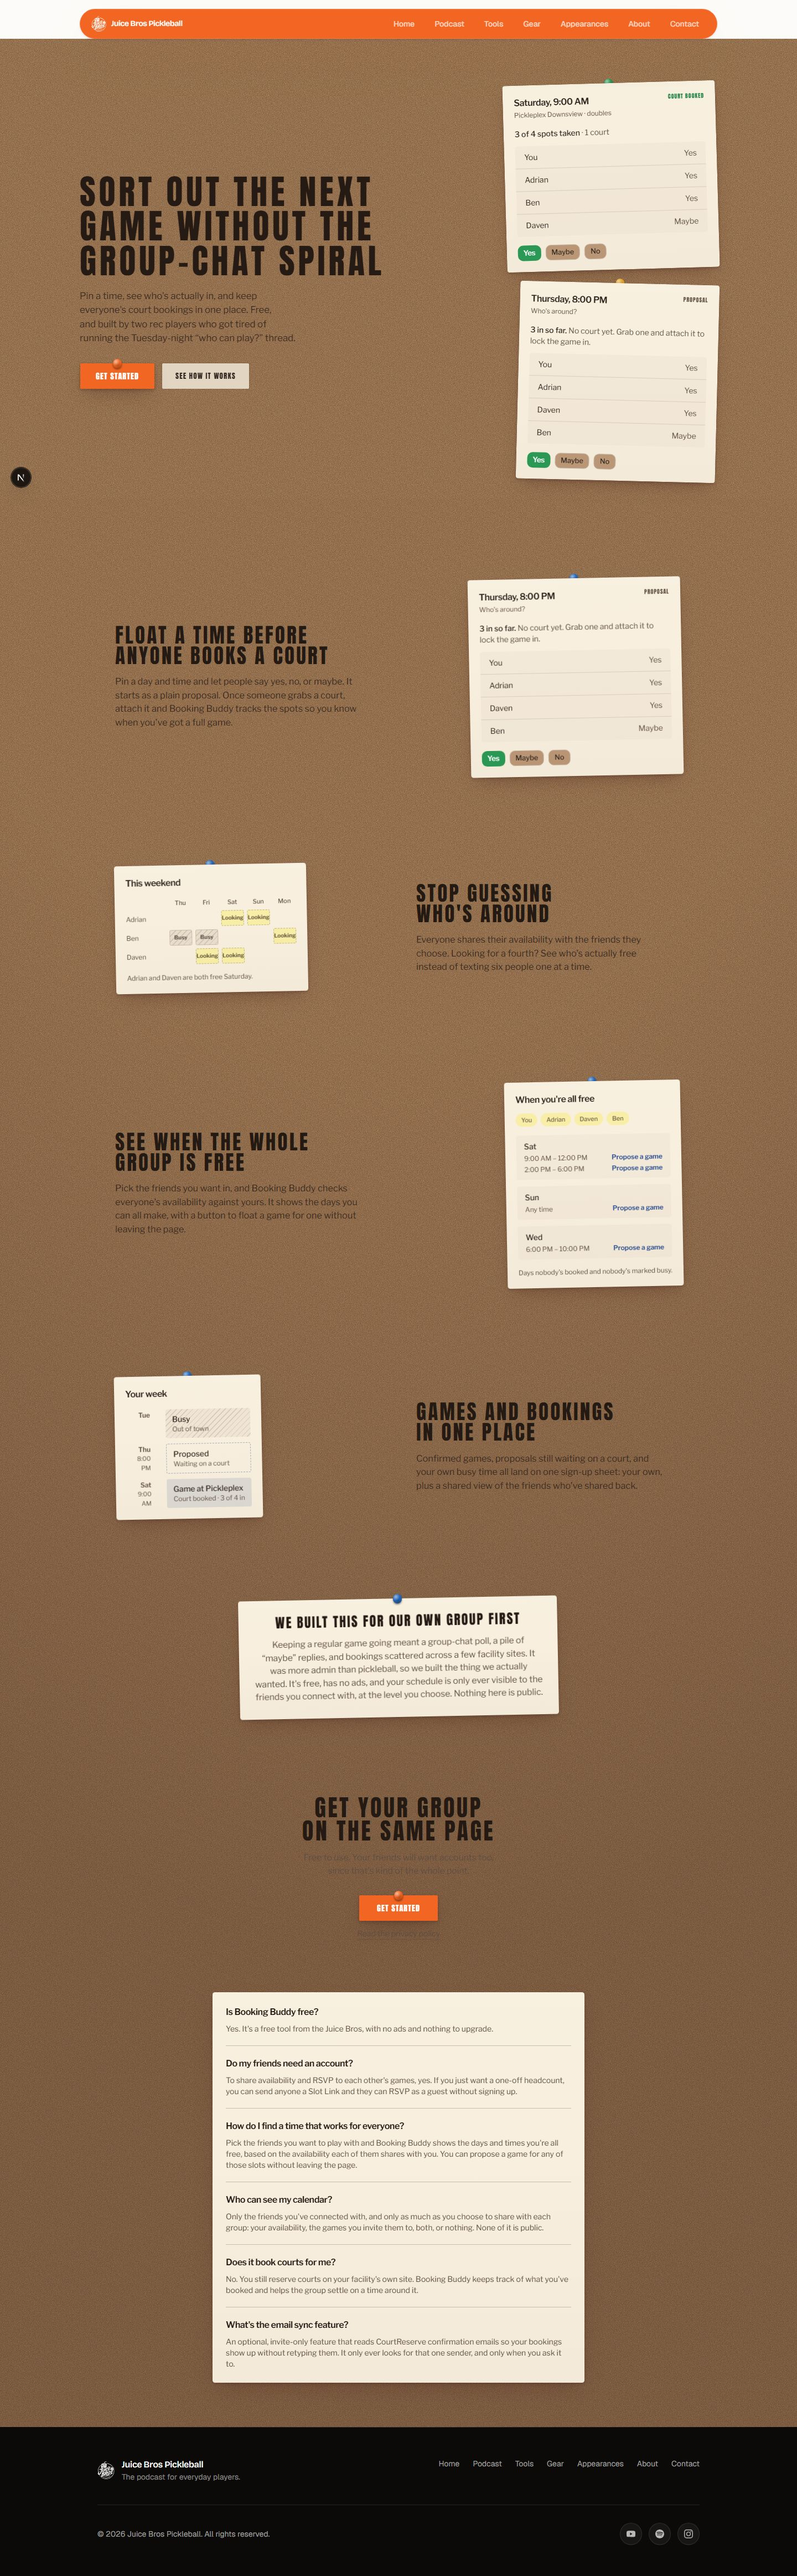
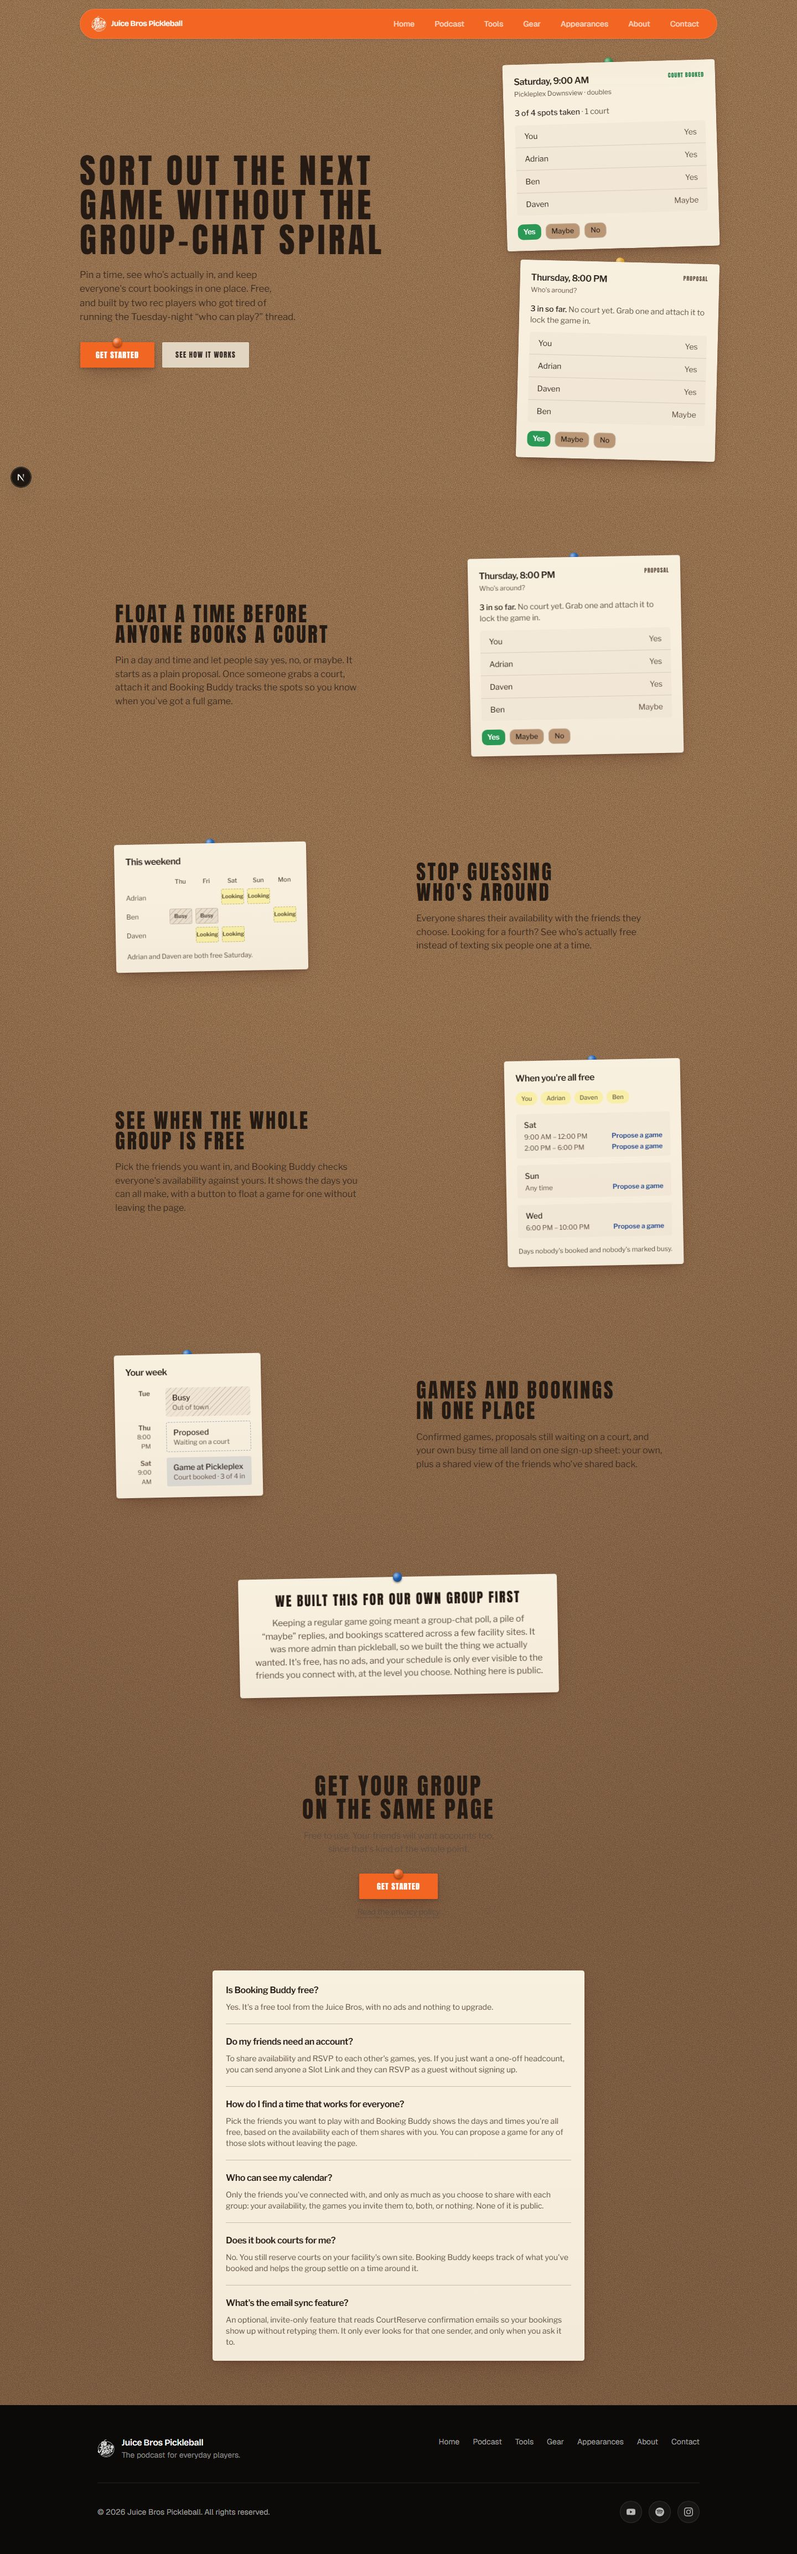
Booking Buddy landing: run the cork behind the floating navbar
Treat /booking-buddy (signed-out) as an overlay-hero page in SiteHeader so the
desktop pill nav floats over the cork instead of reserving a row that showed a
strip of the marketing off-white above the hero (memory: hero pages must run
their background continuously behind the navbar). Hero top padding bumped to
clear the fixed pill.

diff --git a/src/components/layout/site-header.tsx b/src/components/layout/site-header.tsx
@@ -28,15 +28,21 @@ export function SiteHeader() {
   // often wide enough to already be past that breakpoint.
   const isPicklePointPal = pathname?.startsWith("/tools/pickle-point-pal") ?? false;
 
-  // Home, About, and the On Deck landing all open on a full-bleed colored hero
-  // that should run right to the top of the page, so the bar needs to float
-  // over it instead of reserving its own row - every other page keeps it
-  // sticky so page headings aren't tucked underneath it. Only applies to the
-  // desktop bar: on mobile the hero is a short banner rather than a
-  // full-viewport background, so overlapping it hides content - mobile gets a
-  // plain in-flow identity strip instead, plus a corner FAB for the menu.
+  // Home, About, the On Deck landing, and the Booking Buddy landing all open on
+  // a full-bleed hero background that should run right to the top of the page,
+  // so the bar needs to float over it instead of reserving its own row - every
+  // other page keeps it sticky so page headings aren't tucked underneath it.
+  // (`/booking-buddy` only renders this header when signed out - the signed-in
+  // app suppresses it for its own routed sign - so the landing is the only
+  // thing this branch affects there.) Only applies to the desktop bar: on
+  // mobile the hero is a short banner rather than a full-viewport background,
+  // so overlapping it hides content - mobile gets a plain in-flow identity
+  // strip instead, plus a corner FAB for the menu.
   const hasOverlayHero =
-    pathname === "/" || pathname === "/about" || pathname === "/on-deck";
+    pathname === "/" ||
+    pathname === "/about" ||
+    pathname === "/on-deck" ||
+    pathname === "/booking-buddy";
 
   return (
     <>

diff --git a/src/components/booking-buddy/landing/booking-buddy-landing.tsx b/src/components/booking-buddy/landing/booking-buddy-landing.tsx
@@ -80,8 +80,10 @@ export function BookingBuddyLanding() {
         }}
       />
 
-      {/* Hero — the board, a step back. */}
-      <section className="w-full px-4 pt-14 pb-16 sm:px-6 sm:pt-20 sm:pb-24 lg:px-8">
+      {/* Hero — the board, a step back. The cork runs to the top edge behind
+          the floating nav (SiteHeader treats `/booking-buddy` as an overlay
+          hero); the extra top padding clears the fixed pill on desktop. */}
+      <section className="w-full px-4 pt-14 pb-16 sm:px-6 sm:pt-28 sm:pb-24 lg:px-8">
         <div className="mx-auto grid w-full max-w-6xl items-center gap-12 lg:grid-cols-[1.05fr_0.95fr]">
           <div className="flex flex-col gap-5">
             <h1 className="jb-in bb-h text-[2.6rem] leading-[0.92] sm:text-[3.9rem]">
@@ -139,7 +141,7 @@ export function BookingBuddyLanding() {
         </div>
       </section>
 
-      <div id="how" className="scroll-mt-20" />
+      <div id="how" className="scroll-mt-24" />
 
       <Beat
         title="Float a time before anyone books a court"
